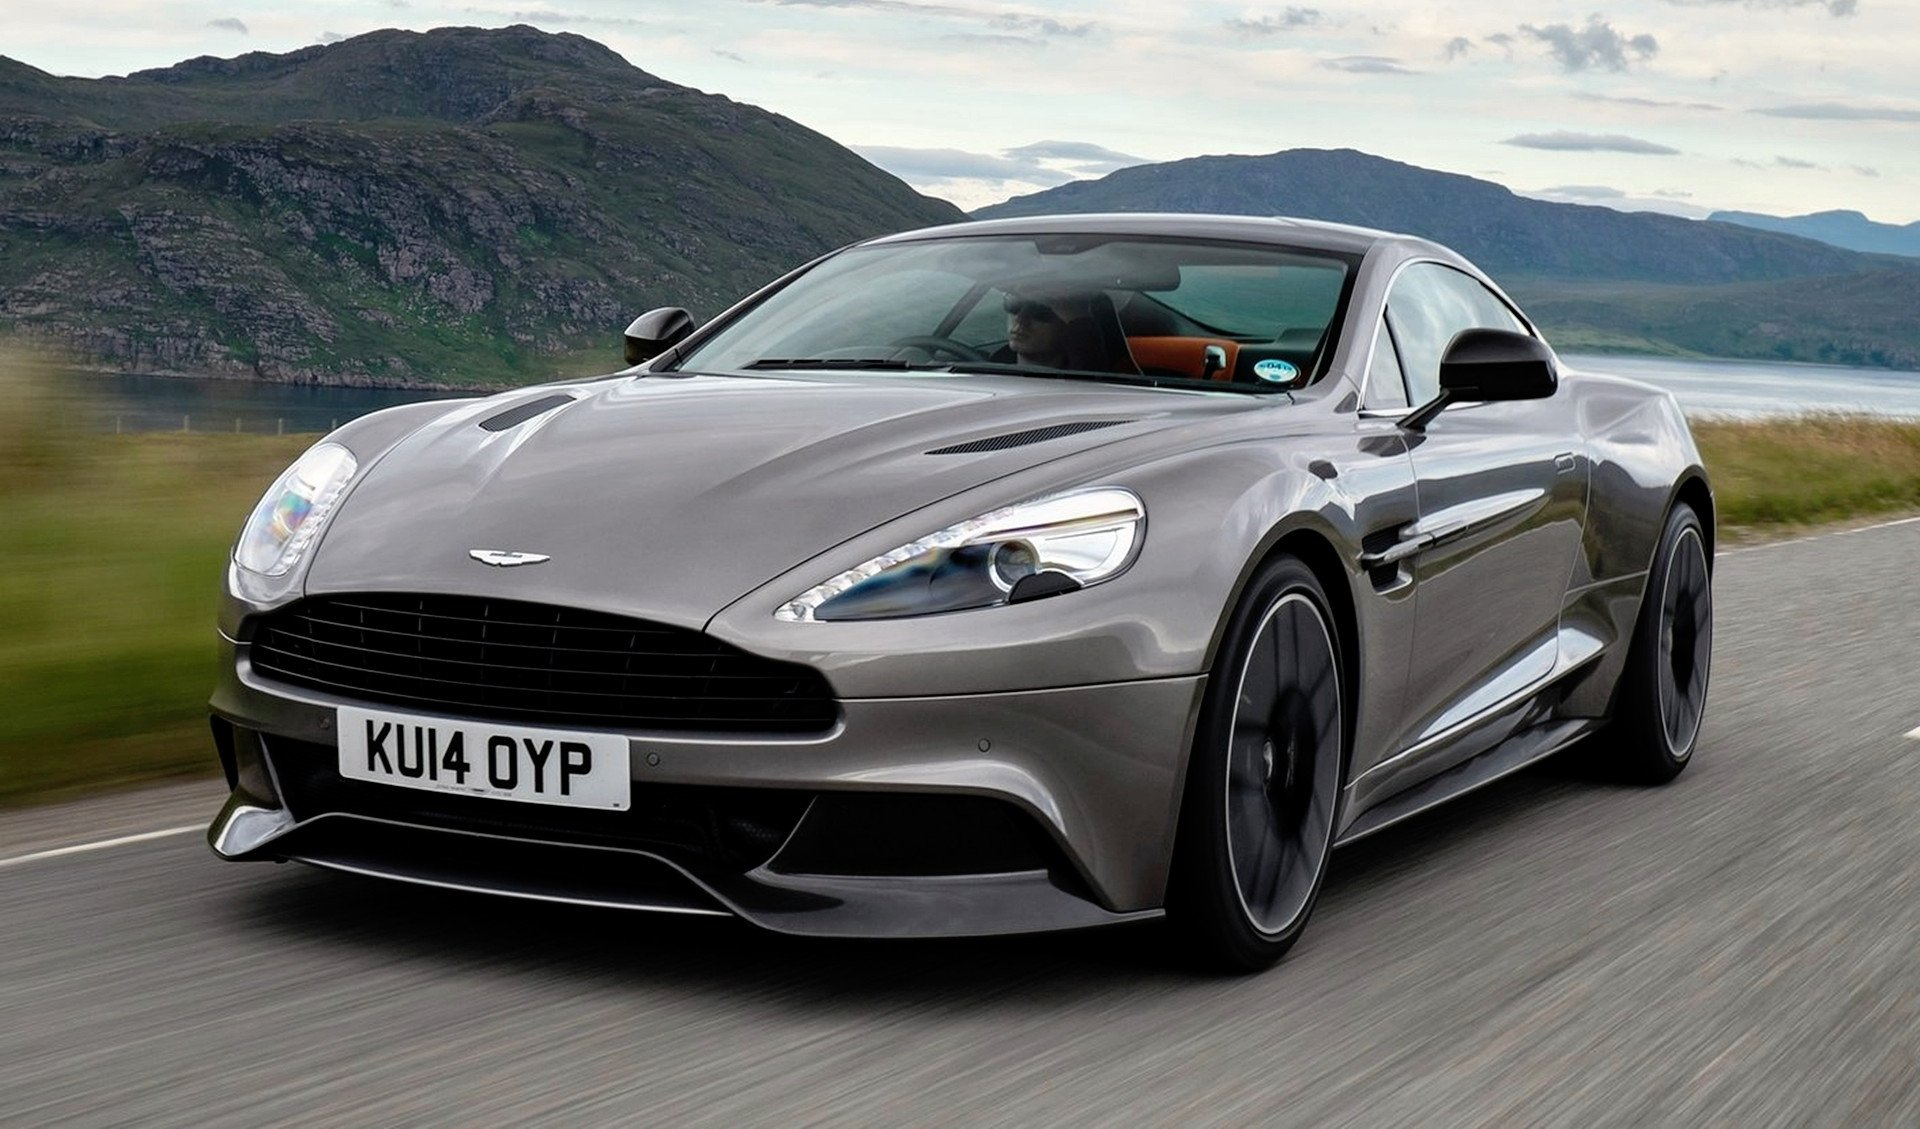
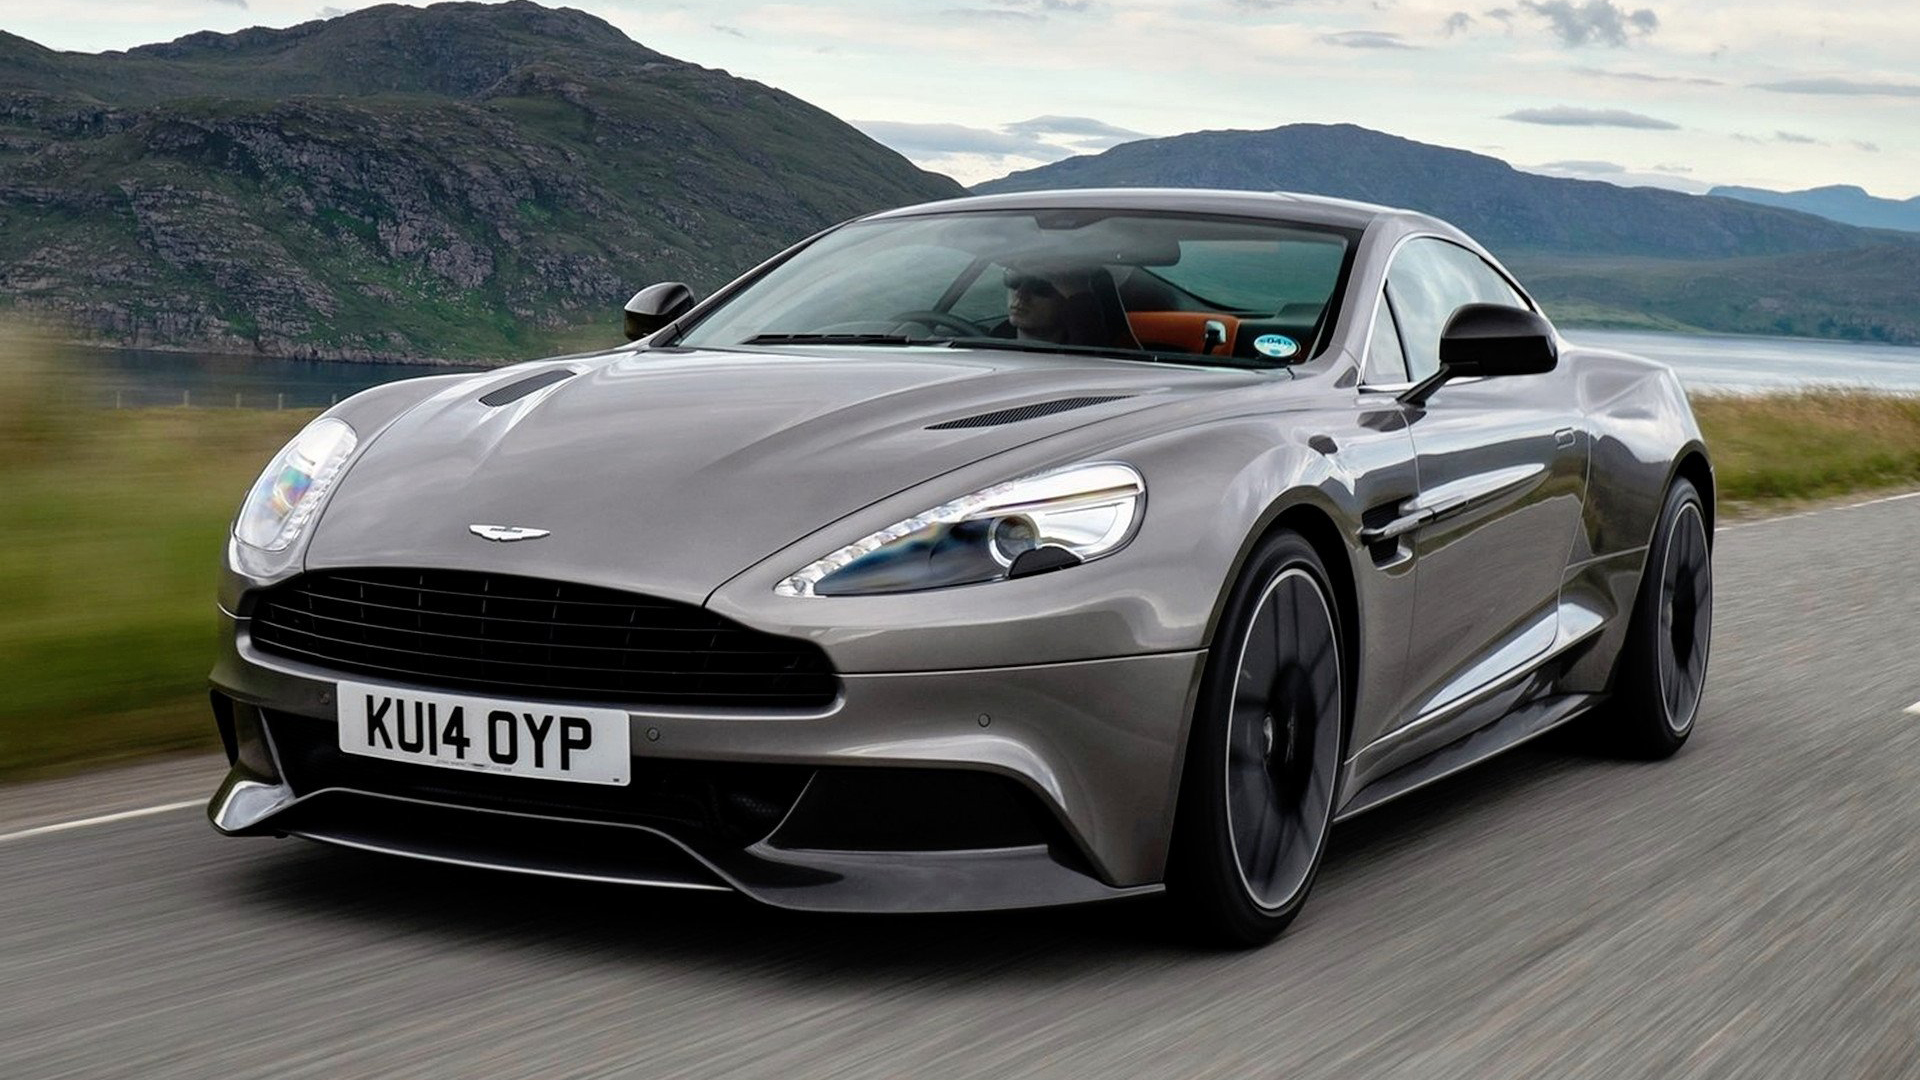
Added click events on mobile devices when user is unable to hover images in horizontal section Replaced 2nd car image from horizontal section due to inappropriate aspect ratio Added half-responsive gallery in horizontal section (full responsiveness will be developed soon) Added function which checks

diff --git a/js/index.js b/js/index.js
@@ -1,8 +1,12 @@
+// Global variables
+const captions = document.querySelectorAll('.horizontal__caption');
+const images = document.querySelectorAll('.horizontal__img');
+
 // Hero scroll button handler
 const heroScroll = () => {
     const btn = document.querySelector('.hero__button');
 
-    btn.addEventListener('click', (e) => {
+    btn.addEventListener('click', e => {
         e.preventDefault();
         const el = e.target;
         const href = el.getAttribute('href');
@@ -17,9 +21,34 @@ const heroScroll = () => {
 
 heroScroll();
 
+// Detecting mobile device
+function detectMobile() {
+    if (window.innerWidth < 800) {
+        captions.forEach(caption => {
+            caption.classList.add('horizontal__caption--mobile');
+        });
+        images.forEach((image, i) => {
+            image.addEventListener('click', () => {
+                let cap = captions[i];
+                cap.classList.toggle('horizontal__caption--active');
+            });
+        });
+    } else {
+        captions.forEach(caption => {
+            caption.classList.remove('horizontal__caption--mobile');
+        });
+        images.forEach(image => {
+            image.classList.remove('horizontal__img--mobile');
+        });
+    }
+}
+
+window.onload = detectMobile;
+window.onresize = detectMobile;
+
 // GSAP ANIMATIONS
 
-// 1. section animations
+// 0. setup and global variables
 gsap.registerPlugin(ScrollTrigger);
 gsap.registerPlugin(CSSRulePlugin);
 
@@ -31,6 +60,7 @@ const tl = gsap.timeline();
 const tl2 = gsap.timeline();
 const tl3 = gsap.timeline();
 
+// 1. section animations
 headings.forEach((text, i) => {
     gsap.from(text, {
         scrollTrigger: {

diff --git a/scss/layout.scss b/scss/layout.scss
@@ -169,7 +169,7 @@
         padding: 20px;
 
         & h1 {
-            font-size: clamp(52px, 15vw, 144px);
+            font-size: clamp(52px, 14vw, 144px);
             font-family: 'Roboto Slab';
             font-weight: 300;
             color: $base-color;
@@ -180,32 +180,47 @@
         }
     }
 
-    &__sec1 {
-        &__article {
-            font-size: clamp(14px, 2vw, 18px);
+    &__sec1 > &__article {
+        font-size: clamp(14px, 1.5vw, 18px);
+    }
+
+    &__sec2 {
+        justify-content: center;
+
+        & > h1 {
+            margin-bottom: 30px;
         }
     }
 
     &__gallery-wrapper {
         display: flex;
-        justify-content: space-around;
-        align-items: center;
-        flex-direction: column;
-        height: 70%;
+        justify-content: center;
+        align-items: space-around;
+        height: 80%;
+        flex-wrap: wrap;
     }
 
     &__fig {
-        margin-bottom: 15px;
+        height: calc(33% - (25px + 15px)); // 33% - (caption height + margin)
     }
 
     &__caption {
         transform: translateY(-150%);
         transition: all 0.3s ease;
         opacity: 0;
+
+        &--mobile {
+            transition: opacity 0.3s ease;
+            transform: translate(0);
+        }
+
+        &--active {
+            opacity: 1;
+        }
     }
 
     &__img {
-        max-width: 100%;
+        max-height: 100%;
         position: relative;
         z-index: 2;
     }

diff --git a/css/main.css b/css/main.css
@@ -217,28 +217,37 @@ body {
     flex-direction: column;
     padding: 20px; }
     .horizontal__sec h1 {
-      font-size: clamp(52px, 15vw, 144px);
+      font-size: clamp(52px, 14vw, 144px);
       font-family: 'Roboto Slab';
       font-weight: 300;
       color: #505abb; }
       .horizontal__sec h1 br {
         display: none; }
-  .horizontal__sec1__article {
-    font-size: clamp(14px, 2vw, 18px); }
+  .horizontal__sec1 > .horizontal__article {
+    font-size: clamp(14px, 1.5vw, 18px); }
+  .horizontal__sec2 {
+    justify-content: center; }
+    .horizontal__sec2 > h1 {
+      margin-bottom: 30px; }
   .horizontal__gallery-wrapper {
     display: flex;
-    justify-content: space-around;
-    align-items: center;
-    flex-direction: column;
-    height: 70%; }
+    justify-content: center;
+    align-items: space-around;
+    height: 80%;
+    flex-wrap: wrap; }
   .horizontal__fig {
-    margin-bottom: 15px; }
+    height: calc(33% - (25px + 15px)); }
   .horizontal__caption {
     transform: translateY(-150%);
     transition: all 0.3s ease;
     opacity: 0; }
+    .horizontal__caption--mobile {
+      transition: opacity 0.3s ease;
+      transform: translate(0); }
+    .horizontal__caption--active {
+      opacity: 1; }
   .horizontal__img {
-    max-width: 100%;
+    max-height: 100%;
     position: relative;
     z-index: 2; }
   .horizontal__img:hover + .horizontal__caption {
